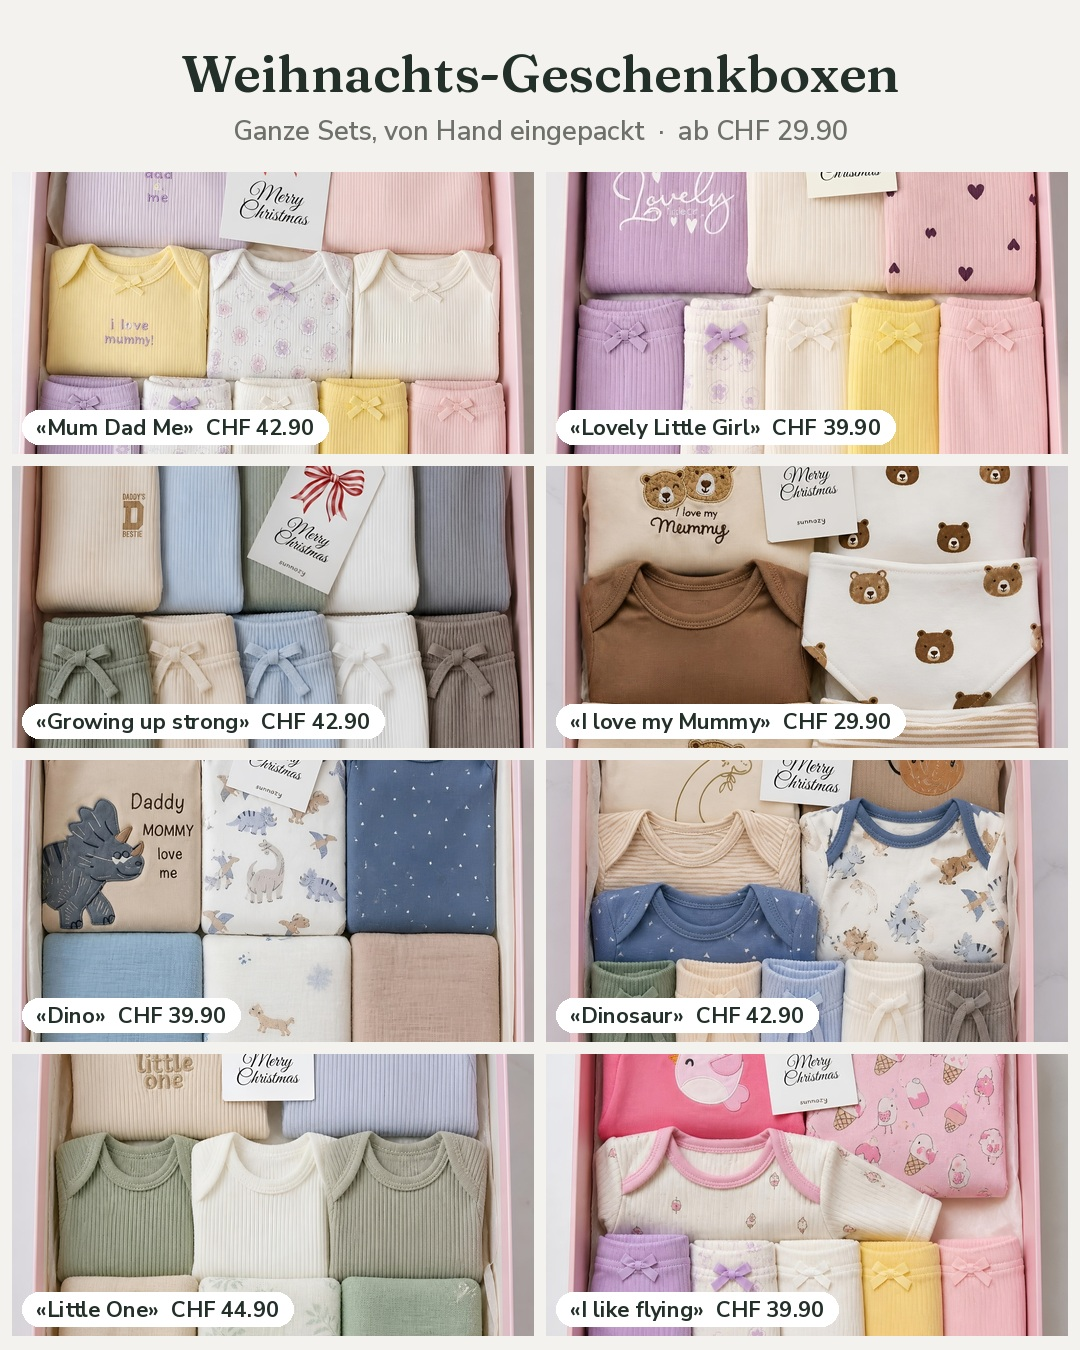
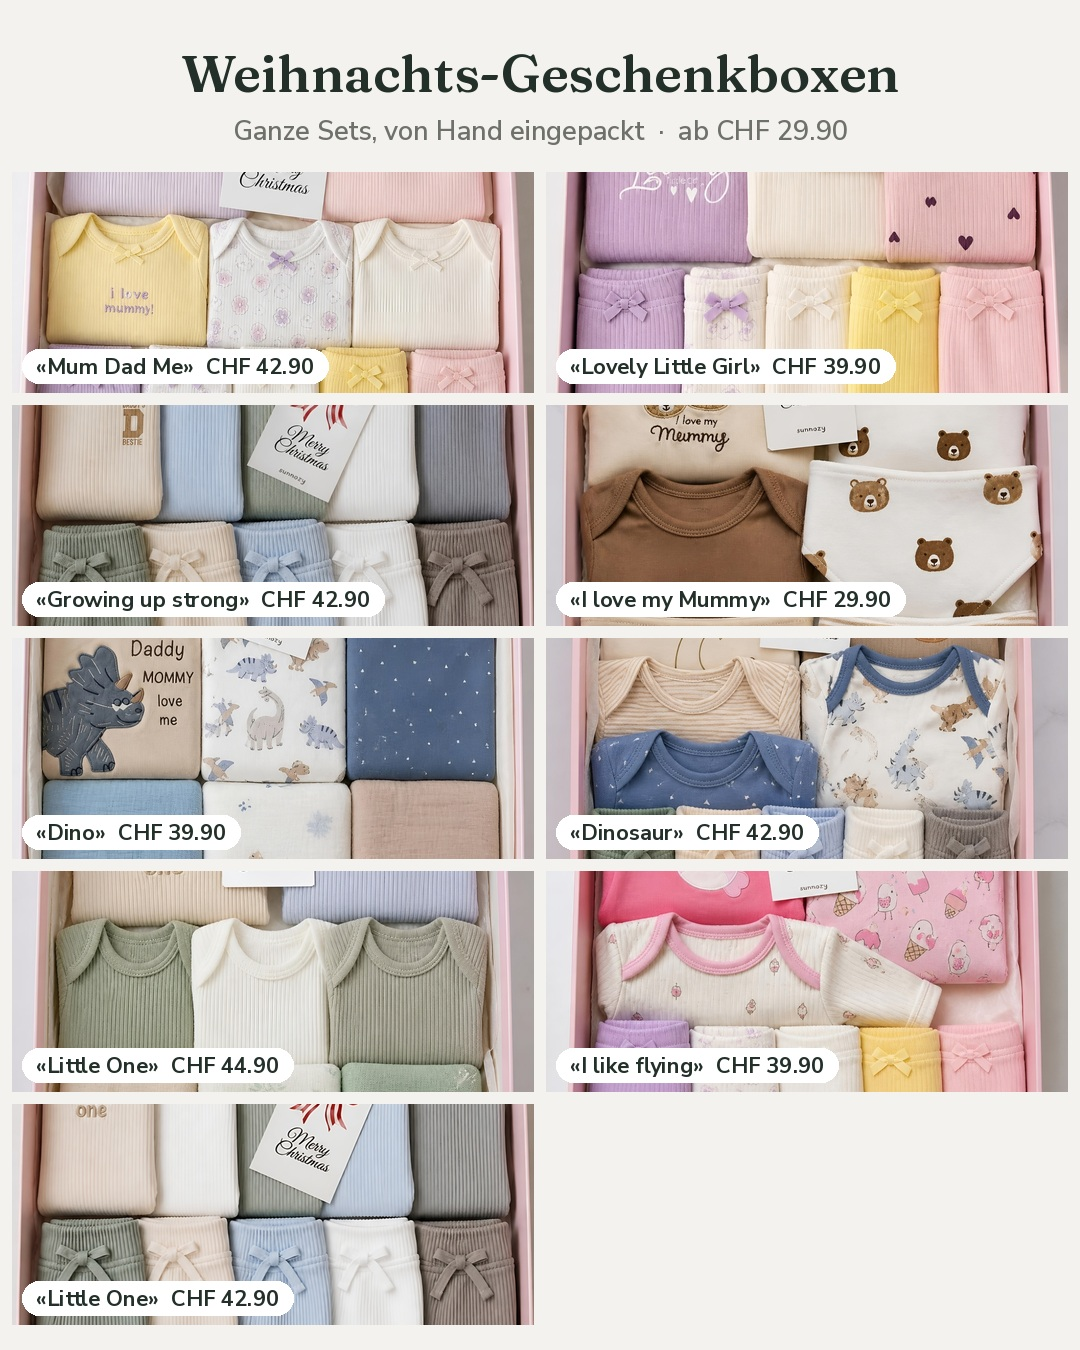
Geschenkbox «Little One» mit 5 Langarm-Bodys und 5 Jogginghosen: Box-Foto, Shop-Hauptbild, Anzeigen
Claude-Session: https://claude.ai/code/session_01Mcsz2CcqhytaxPLftYR6o2

diff --git a/sunnozy-content/tools/make_weihnachtsbox.py b/sunnozy-content/tools/make_weihnachtsbox.py
@@ -27,7 +27,8 @@ BOXEN = [('box_mum_dad_me', '«Mum Dad Me»', '5 Bodys + 5 Leggings', '42.90'),
          ('box_dino', '«Dino»', '3 Bodys + 3 Mulltücher', '39.90'),
          ('box_dinosaur', '«Dinosaur»', '5 Bodys + 5 Jogginghosen', '42.90'),
          ('box_little_one', '«Little One»', '5 Bodys + 3 Mulltücher', '44.90'),
-         ('box_i_like_flying', '«I like flying»', '3 Bodys + 5 Leggings', '39.90')]
+         ('box_i_like_flying', '«I like flying»', '3 Bodys + 5 Leggings', '39.90'),
+         ('box_little_one_jogginghosen', '«Little One»', '5 Bodys + 5 Jogginghosen', '42.90')]
 TITEL = 'Weihnachts-Geschenkbox'
 
 
@@ -94,14 +95,15 @@ def shopify(box, N=2048):
 
 
 def uebersicht(W=1080, H=1350):
-    """Alle Boxen im Raster 2 x 4 fuer eine Kollektions-Anzeige."""
+    """Alle Boxen im Raster mit 2 Spalten fuer eine Kollektions-Anzeige."""
     im0 = foto(BOXEN[0])
     c = leinwand(im0, W, H, H, 0); d = ImageDraw.Draw(c)
     d.rectangle([0, 0, W, H], fill=(244, 242, 239))
     d.text((W / 2, 92), TITEL + 'en', font=FONT('fraunces-600.ttf', 52), fill=WALD, anchor='ms')
     d.text((W / 2, 140), 'Ganze Sets, von Hand eingepackt  ·  ab CHF 29.90', font=FONT('nunitosans-600.ttf', 27), fill=GRAU, anchor='ms')
     g, oben = 12, 172
-    kw = (W - 3 * g) // 2; kh = (H - oben - 4 * g) // 4
+    reihen = (len(BOXEN) + 1) // 2
+    kw = (W - 3 * g) // 2; kh = (H - oben - (reihen + 1) * g) // reihen
     f = FONT('nunitosans-700.ttf', 22)
     for i, box in enumerate(BOXEN):
         x, y = g + (i % 2) * (kw + g), oben + (i // 2) * (kh + g)
